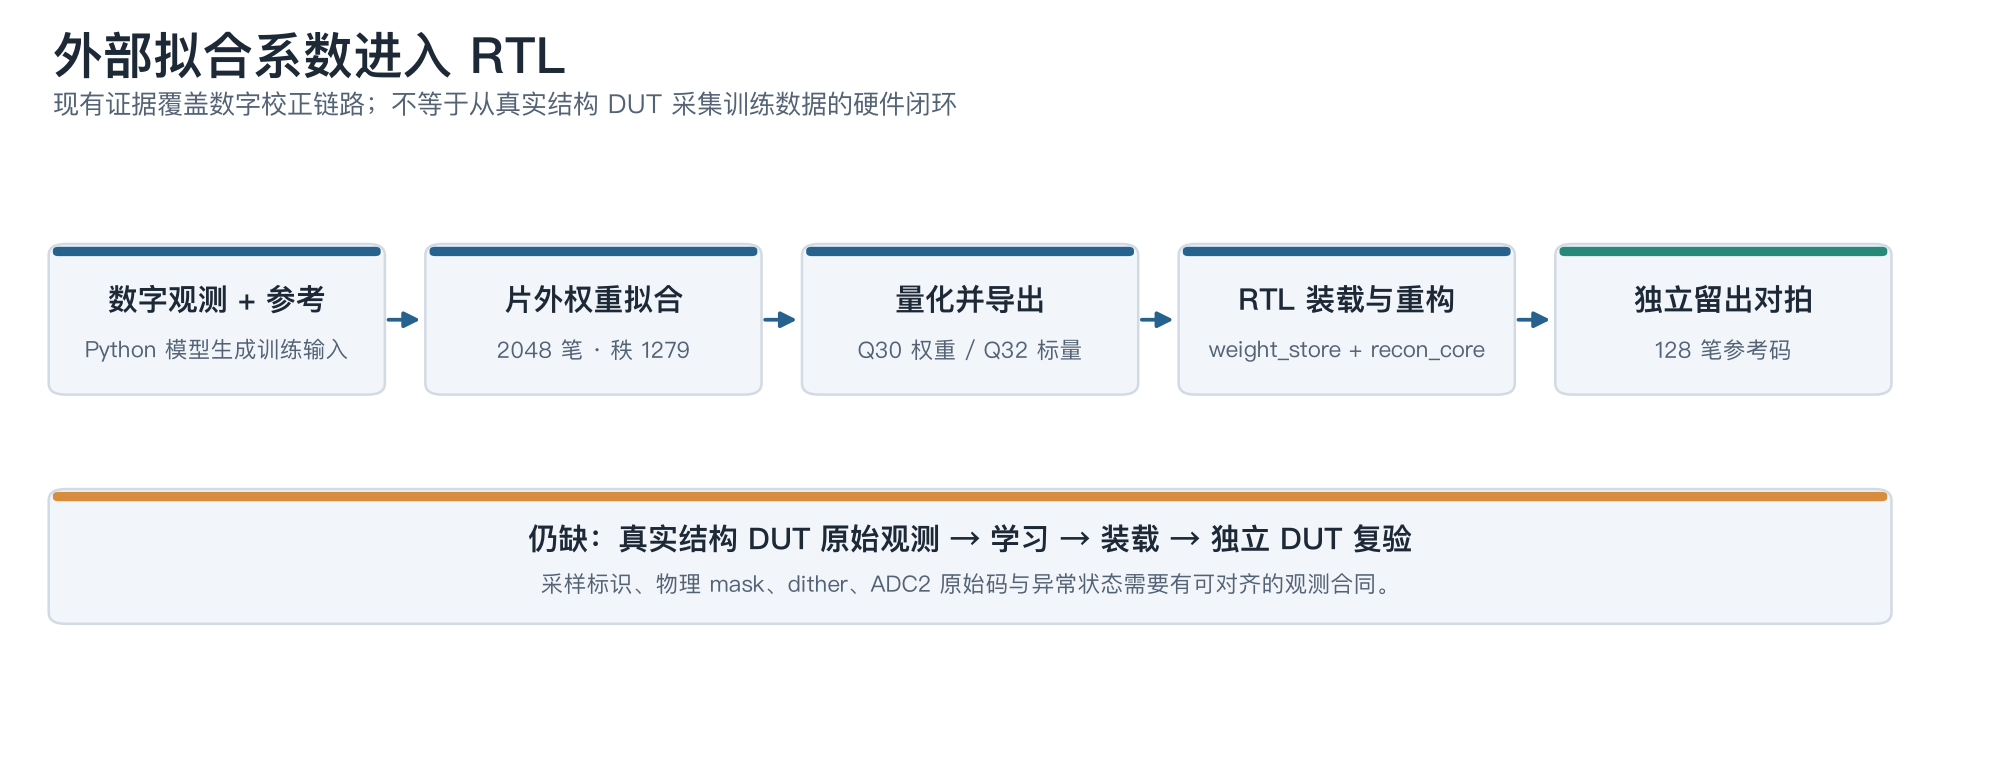
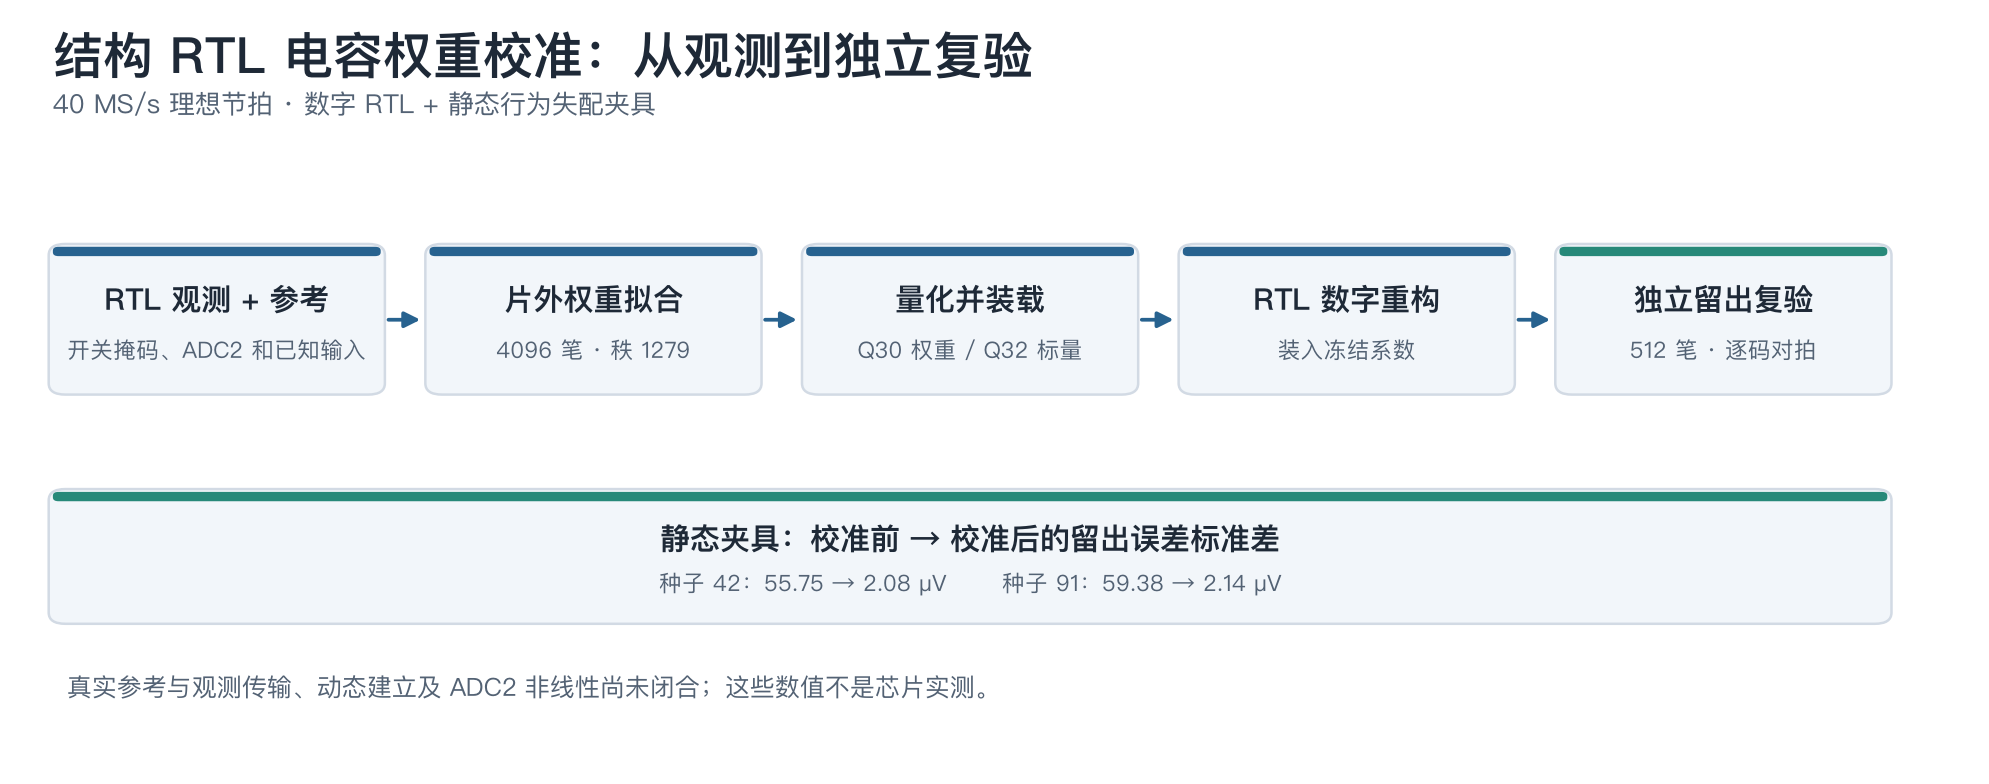
docs: clarify digital status and refresh calibration figure

diff --git a/docs/readme/make_unified_figures.py b/docs/readme/make_unified_figures.py
@@ -195,18 +195,31 @@ def matrix():
 
 
 def calibration():
-    """Illustrate the fitted-weight and RTL holdout path."""
-    manifest = json.loads((ROOT / "sim/vectors/fitted18_manifest.json").read_text())
+    """Illustrate the structural RTL fit and independent holdout evidence."""
+    report = json.loads((ROOT / "docs/readme/data/structural_calibration_summary.json").read_text())
+    cases = {row["chip_seed"]: row for row in report["results"]}
+    first, second = cases[42], cases[91]
+    if any(
+        row["noise_rms_uv"] != 0
+        or not row["rtl_matches_independent_integer"]
+        or not row["python_rtl_sample_switch_contract"]
+        for row in (first, second)
+    ):
+        raise ValueError("structural calibration figure requires the verified noiseless cases")
+    if any(
+        first[key] != second[key] for key in ("training_samples", "holdout_samples", "matrix_rank")
+    ):
+        raise ValueError("structural calibration cases use incompatible sample counts or ranks")
     fig, ax = canvas(
-        "外部拟合系数进入 RTL",
-        "现有证据覆盖数字校正链路；不等于从真实结构 DUT 采集训练数据的硬件闭环",
+        "结构 RTL 电容权重校准：从观测到独立复验",
+        f'{report["sample_rate_hz"] / 1e6:g} MS/s 理想节拍 · 数字 RTL + 静态行为失配夹具',
     )
     blocks = [
-        ("数字观测 + 参考", "Python 模型生成训练输入"),
-        ("片外权重拟合", f'{manifest["training_samples"]} 笔 · 秩 {manifest["rank"]}'),
-        ("量化并导出", "Q30 权重 / Q32 标量"),
-        ("RTL 装载与重构", "weight_store + recon_core"),
-        ("独立留出对拍", f'{manifest["holdout_samples"]} 笔参考码'),
+        ("RTL 观测 + 参考", "开关掩码、ADC2 和已知输入"),
+        ("片外权重拟合", f'{first["training_samples"]} 笔 · 秩 {first["matrix_rank"]}'),
+        ("量化并装载", "Q30 权重 / Q32 标量"),
+        ("RTL 数字重构", "装入冻结系数"),
+        ("独立留出复验", f'{first["holdout_samples"]} 笔 · 逐码对拍'),
     ]
     for i, (title, detail) in enumerate(blocks):
         x = 0.25 + 2.7 * i
@@ -219,9 +232,17 @@ def calibration():
         1.55,
         13.15,
         1.38,
-        "仍缺：真实结构 DUT 原始观测 → 学习 → 装载 → 独立 DUT 复验",
-        "采样标识、物理 mask、dither、ADC2 原始码与异常状态需要有可对齐的观测合同。",
-        ORANGE,
+        "静态夹具：校准前 → 校准后的留出误差标准差",
+        f'种子 42：{first["before_error_std_uv"]:.2f} → {first["after_error_std_uv"]:.2f} µV'
+        f'       种子 91：{second["before_error_std_uv"]:.2f} → {second["after_error_std_uv"]:.2f} µV',
+        TEAL,
+    )
+    ax.text(
+        0.35,
+        0.75,
+        "真实参考与观测传输、动态建立及 ADC2 非线性尚未闭合；这些数值不是芯片实测。",
+        fontsize=10,
+        color=MUTED,
     )
     finish(fig, "unified_3_calibration.png")
 

diff --git a/README_EN.md b/README_EN.md
@@ -6,6 +6,16 @@ This research repository studies slice scheduling, capacitor mismatch, digital c
 
 > **Evidence boundary:** This is a research prototype. A 20-bit output word does not imply 20-bit ENOB. The plotted performance figures are conditional behavioral simulations, not silicon measurements, PDK signoff or timing closure.
 
+## Results at a glance
+
+| Question | Project approach | What was observed under the stated conditions |
+|---|---|---|
+| **Capacitor mismatch** | Fit effective weights externally and load them into the digital RTL | For two static mismatch fixtures, independent holdout error standard deviation is **55.75 → 2.08 µV** and **59.38 → 2.14 µV**; see [Figure 4](#capacitor-mismatch-calibration-and-effect) |
+| **Interleaving timing skew** | Randomize slice selection to spread the spur | Under the stated 10 ps assumption, the `fs/2−fin` spur changes **−96.44 → −123.05 dBFS/bin**, while total error RMS increases; see [Figure 6](#interleaving-mismatch-spurs-and-total-error) |
+| **Model/RTL agreement** | Align switch masks, reference events and sample ownership | Under the project contract, **262144** code/DEM-state masks and **10752** reference events across three dither modes match; see [ADR 0021](docs/adr/0021-structural-contract-calibration.md) |
+
+These results use static behavioral fixtures or stated behavioral-simulation conditions. Random scheduling is not a per-slice timing calibration, and these are not silicon measurements.
+
 ## Architecture and configurations
 
 ![Two-stage SAR architecture and project configurations](docs/readme/fig/unified_1_architecture.png)
@@ -25,18 +35,19 @@ The Python profiles are not identical circuit models. A nominal sample-rate sett
 
 ## Digital work: purpose, current results and open problems
 
-The digital work is grouped into four packages: conversion control, unit/interleaving mismatch treatment, ADC-core calibration and reconstruction, and system correction and data output. “Available” means a **research prototype verified under stated conditions**.
+The digital work has four packages. “Available” means a research prototype verified under stated conditions.
 
-| Work package and main task | Available now | Still needed |
-|---|---|---|
-| **Conversion control and sample ownership:** coordinate sampling, coarse decisions, residue formation and ADC2 | Structural RTL has 16-phase control, comparator interfaces, slice scheduling, sample IDs and fault flags. The Python structural profile matches the RTL slice order, samples and seven resolved RDAC events | Real comparator completion, analog switch and reference-phase contracts; system-wide fault and reset propagation |
-| **DEM, dither and interleaving mismatch:** redistribute unit/slice error, inject known dither and address slice differences | Python has fixed physical pools and interleaving experiments; RTL has slice allocation, DEM addressing, a bridge candidate and dither generation. Physical masks and three dither modes are compared against Python | DEM redistributes error; full per-slice hardware estimation/correction of offset, gain, timing and bandwidth is missing. The complete slide bridge circuit and dual-port dither enhancement are not reproduced |
-| **Capacitor calibration and digital reconstruction:** estimate effective weights from an independent reference and digital observations, then reconstruct using known dither and frozen coefficients | Structural RTL observations, external fitting, quantized coefficient loading and independent holdouts are connected. Two static-mismatch results are shown in [Figure 4](#capacitor-mismatch-calibration-and-effect) and [ADR 0021](docs/adr/0021-structural-contract-calibration.md) | Real reference and observation transport; dynamic settling, drift and ADC2 nonlinearity. The 748-bit parallel observation port has no FIFO, backpressure or physical transport |
-| **System correction, DSP and data output:** correct overall gain/offset and provide filtering, buffering and an external interface | SAR and DSP tops are connected; correction, SINC filtering, FIFO, SPI and fault-stop blocks are prototypes | Invert the two-point coefficients from raw to target codes; complete filter coefficients, FIFO-to-serial routing, output metadata and a lossless DDR/differential interface |
+**1. Conversion control and sample ownership.** Coordinate sampling, coarse decisions, residue formation and ADC2. The structural RTL has 16-phase control, comparator interfaces, slice scheduling, sample IDs and fault flags; Python and RTL agree on slice order and seven resolved RDAC events. **Still needed:** real comparator completion, analog switch/reference phase contracts and system-wide fault/reset handling.
 
-**Shared verification and priorities:** first provide real reference, calibration-observation transport and analog-phase interfaces; then study identifiable per-slice correction and dynamic errors; finally complete DSP and output. Sample IDs, faults and reset checks span all four packages. Formal equivalence, CDC/RDC, target-library STA and analog post-layout verification remain open. The 640 MHz clock implied by 16 phases at 40 MS/s is an ideal budget, not proven target-process timing.
+**2. DEM, dither and interleaving mismatch.** Rearrange slices and capacitor units to spread error and inject known perturbations. The project has fixed physical pools, interleaving experiments, RTL slice allocation, DEM addressing, a bridge candidate and a dither generator; physical masks and three dither modes have been compared. **Still needed:** identifiable per-slice offset, gain, timing and bandwidth estimation/correction. The complete slide bridge circuit and dual-port dither enhancement remain unreproduced. DEM redistributes error; it does not measure mismatch.
 
-ADC-core capacitor-weight correction and the system gain/offset correction in the [AD4080 data sheet](https://www.analog.com/media/en/technical-documentation/data-sheets/ad4080.pdf) act at different levels. The [historical task assessment](docs/digital_task_assessment.md) lists integration verification separately; here it is shared by all four packages.
+**3. Capacitor calibration and digital reconstruction.** Estimate effective weights from a known reference and digital observations, then reconstruct using frozen coefficients and known dither. Structural RTL observation, external fitting, quantized loading and independent holdouts are connected; see [ADR 0021](docs/adr/0021-structural-contract-calibration.md). **Still needed:** real reference and observation transport, dynamic settling/drift and ADC2 nonlinearity verification; the 748-bit observation port has no FIFO or backpressure.
+
+**4. System correction, DSP and data output.** Correct overall signal-chain gain/offset and provide filtering, buffering and external interfaces. SAR and DSP tops are connected; correction, SINC, FIFO, SPI and fault-stop blocks are prototypes. **Still needed:** correct the two-point coefficient direction, complete filter coefficients, FIFO-to-serial routing, output metadata and a lossless DDR/differential interface.
+
+**Shared priorities.** First establish real reference, observation transport and analog-phase interfaces; then study per-slice correction and dynamic error; finally complete DSP and output. Sample IDs, faults, reset and verification span all four packages. Formal equivalence, CDC/RDC, target-library STA and analog post-layout verification remain open. The 640 MHz clock implied by 16 phases at 40 MS/s is an ideal budget.
+
+ADC-core weight correction and system gain/offset correction in the [AD4080 data sheet](https://www.analog.com/media/en/technical-documentation/data-sheets/ad4080.pdf) act at different levels. The [historical task assessment](docs/digital_task_assessment.md) listed integration verification separately; here it is shared work.
 
 ## Mapping public sources to this project
 
@@ -56,7 +67,7 @@ See [`mechanism_inventory.json`](mechanism_inventory.json), [`sources_manifest.j
 
 ![External fitting to RTL reconstruction](docs/readme/fig/unified_3_calibration.png)
 
-*Figure 2. Original project illustration of the existing external fit and RTL reconstruction path.*
+*Figure 2. Structural digital RTL observation, external fitting and independent holdout. This original illustration uses retained results from a static behavioral mismatch fixture, not silicon.*
 
 Digital observations and an independent reference input feed a Python batch estimator. Frozen effective unit weights are quantized into Q30 weights and Q32 scalars, loaded into RTL `weight_store` and `calib_regs`, and applied by `recon_core`. [ADR 0019](docs/adr/0019-fitted-weight-rtl-closure.md) used Python training observations; the current flow also captures real structural-DUT observations, as described in [ADR 0021](docs/adr/0021-structural-contract-calibration.md).
 
@@ -111,6 +122,16 @@ The separate `cal_two_point` block currently fits `y=m·x+c` at fixed x coordina
 *Figure 8. Original illustration generated from the runtime parameter provenance ledger. Fitted and assumed results are not disclosed facts or chip measurements.*
 
 Behavioral models, RTL simulation, historical FPGA evidence and target-PDK synthesis/STA are separate evidence levels. Figures 3 and 6 are 40 MS/s behavioral simulations on baseline `6863fc3`; Figure 4 combines the current structural digital DUT with a static behavioral plant. None is transistor or silicon data. Historical detailed documentation is retained in [`docs/history/`](docs/history/); historical tests are not automatically new results for the present checkout.
+
+### Code and data entry points
+
+| Looking for | Entry point |
+|---|---|
+| Behavioral model, configuration and switching | [`src/adi_model/`](src/adi_model/) |
+| Structural RTL and observation/reconstruction interface | [`sar20_digital_core.sv`](rtl/top/sar20_digital_core.sv) · [RTL contract](docs/adr/0021-structural-contract-calibration.md) |
+| Calibration training, loading and holdouts | [`run_structural_calibration.py`](tools/run_structural_calibration.py) · [result data](docs/readme/data/) |
+| Interleaving, reference and paper comparisons | [Experiment comparisons](docs/paper_comparisons/README.md) |
+| DSP and external interfaces | [DSP README](ad4080_dsp/README.md) · [SAR interface](ad4080_dsp/docs/SAR20_INTERFACE.md) |
 
 ### Quick start
 

diff --git a/README.md b/README.md
@@ -6,6 +6,16 @@
 
 > **证据边界**：这是研究原型；20 位是数字输出码宽，不等于 20-bit ENOB。图中的性能数字来自指定条件下的行为仿真，不是芯片实测，也不代表版图、PDK 或时序签核。
 
+## 先看结果
+
+| 关心的问题 | 工程中的处理 | 在什么条件下看到什么 |
+|---|---|---|
+| **电容失配** | 片外拟合有效权重，装入数字 RTL 后重构 | 两组静态失配夹具的独立留出误差标准差分别为 **55.75 → 2.08 µV**、**59.38 → 2.14 µV**；见[图 4](#电容失配如何校准效果是什么) |
+| **交织时序失配** | 随机选择 slice，分散误差杂散 | 指定 10 ps 假设下，`fs/2−fin` 杂散为 **−96.44 → −123.05 dBFS/bin**，但总误差 RMS 增大；见[图 6](#交织失配杂散与总误差) |
+| **模型与 RTL 是否一致** | 对齐开关掩码、参考事件和样本归属 | 项目合同下 **262144 组**码／DEM 状态掩码一致，三种 dither 模式的 **10752 个**参考事件对拍一致；见 [ADR 0021](docs/adr/0021-structural-contract-calibration.md) |
+
+这些数字分别来自静态行为夹具或指定条件的行为仿真；随机调度不是逐 slice 时序校准，以上结果也不是芯片测量。
+
 ## 架构与配置
 
 ![两级 SAR 架构与工程配置](docs/readme/fig/unified_1_architecture.png)
@@ -25,18 +35,19 @@
 
 ## 数字部分：作用、完成情况与主要问题
 
-数字部分按四块组织：控制转换、处理单元与交织失配、校准并重构 ADC 核输出、完成系统校正和数据输出。下表的“已完成”均指**指定条件下验证的研究原型**。
+数字工作分为四块；下文的“已完成”均指指定条件下验证的研究原型。
 
-| 工作块与主要任务 | 已完成 | 还缺什么 |
-|---|---|---|
-| **转换控制与样本管理**：组织采样、粗判决、残差形成和 ADC2 转换，保证每笔数据归属正确 | 结构 RTL 已有 16 相位控制、比较器接口、slice 调度、样本 ID 和异常标志；Python 结构对照的切片顺序、样本及 7 个 RDAC 已决事件已与 RTL 对拍 | 需要真实比较器完成时刻、模拟开关和参考相位合同，并验证异常及复位贯穿整个系统 |
-| **DEM、dither 与交织失配**：重排 slice 和电容单元以分散失配误差，加入已知扰动并处理切片间差异 | Python 有固定物理池和交织失配实验；RTL 有 slice 分配、DEM 地址、bridge 候选和 dither 发生器，物理掩码及三种 dither 模式已与 Python 对拍 | DEM 只重排误差，尚无逐 slice 失调、增益、时序和带宽的完整硬件估计／补偿闭环；讲稿 bridge 的完整电路和双端口 dither 增强未复现 |
-| **电容校准与数字重构**：用独立参考和数字观测估计电容的有效权重，再结合已知扰动和冻结系数重构输出 | 已贯通结构 RTL 原始观测、片外拟合、系数量化装载和独立留出复验；静态失配夹具的两组结果见[图 4](#电容失配如何校准效果是什么)及 [ADR 0021](docs/adr/0021-structural-contract-calibration.md) | 尚需真实参考输入和观测读出，覆盖动态建立、漂移及 ADC2 自身非线性；748 位并行观测口尚无 FIFO、反压或实际传输机制 |
-| **系统校正、DSP 与数据输出**：修正信号链整体增益／失调，并提供滤波、缓存和外部接口 | SAR 与 DSP 顶层已连接；校正、SINC 滤波、FIFO、SPI 和错误阻断已有原型 | 两点系数需按原码到目标码求逆；补齐有效滤波系数、FIFO 到串行路径、输出元数据和无损 DDR／差分接口 |
+**1. 转换控制与样本管理。** 负责采样、粗判决、残差形成和 ADC2 转换，并记录每笔数据的归属。已实现 16 相位控制、比较器接口、slice 调度、样本 ID 和异常标志，Python 结构对照已与 RTL 对齐切片顺序及 7 个 RDAC 已决事件。**还需**落实真实比较器完成时刻、模拟开关／参考相位，以及系统级异常和复位。
 
-**共同验证与优先级：**先落实真实参考、校准观测读出和模拟相位接口，再研究逐 slice 可辨识校正与动态误差，随后完善 DSP 和输出。样本 ID、异常与复位检查贯穿各块；形式等价、CDC／RDC、目标工艺 STA 和模拟后仿仍需完成。16 相位对应的 640 MHz 只是 40 MS/s 下的理想时钟预算，不代表工艺时序已通过。
+**2. DEM、dither 与交织失配。** 负责重排 slice 与电容单元以分散误差，并加入已知扰动。已有固定物理池、交织失配行为实验、RTL 的 slice 分配、DEM 地址、bridge 候选及 dither 发生器；物理掩码与三种 dither 模式已对拍。**还需**逐 slice 失调、增益、时序和带宽的可辨识估计／补偿；讲稿 bridge 完整电路和双端口 dither 增强也未复现。DEM 是误差重排，不会自行测量失配。
 
-ADC 核的电容权重校正与 [AD4080 手册](https://www.analog.com/media/en/technical-documentation/data-sheets/ad4080.pdf)中的系统增益／失调校正作用于不同层次；[历史任务复核](docs/digital_task_assessment.md)将集成验证单列，此处把它作为四块共有的验收工作。
+**3. 电容校准与数字重构。** 负责从已知参考和数字观测估计有效权重，结合已知扰动重构输出。已贯通结构 RTL 观测、片外拟合、量化装载和独立留出复验，条件与数据见 [ADR 0021](docs/adr/0021-structural-contract-calibration.md)。**还需**真实参考及观测传输、动态建立／漂移与 ADC2 自身非线性验证；现有 748 位并行观测口没有 FIFO 或反压。
+
+**4. 系统校正、DSP 与数据输出。** 负责整个信号链的增益／失调校正，以及滤波、缓存和外部接口。SAR 与 DSP 顶层已连接，校正、SINC、FIFO、SPI 和错误阻断均有原型。**还需**修正两点系数方向，补齐有效滤波系数、FIFO 到串行路径、输出元数据和无损 DDR／差分接口。
+
+**共同优先级。** 先落实真实参考、观测读出和模拟相位接口，再研究逐 slice 校正与动态误差，随后完善 DSP 和输出。样本 ID、异常、复位及验证贯穿四块；形式等价、CDC／RDC、目标工艺 STA 和模拟后仿仍未完成。16 相位对应的 640 MHz 是 40 MS/s 下的理想时钟预算。
+
+ADC 核的电容权重校正与 [AD4080 手册](https://www.analog.com/media/en/technical-documentation/data-sheets/ad4080.pdf)中的系统增益／失调校正作用于不同层次；[历史任务复核](docs/digital_task_assessment.md)将集成验证单列，此处把它作为共同工作。
 
 ## 论文、专利与工程实现
 
@@ -56,7 +67,7 @@ ADC 核的电容权重校正与 [AD4080 手册](https://www.analog.com/media/en/
 
 ![拟合权重到 RTL 的路径](docs/readme/fig/unified_3_calibration.png)
 
-*图 2．现有片外拟合和 RTL 重构路径；按工程实现独立绘制。*
+*图 2．结构数字 RTL 观测、片外拟合和独立留出复验；由随库结果数据生成的原创示意，静态行为失配夹具不是芯片。*
 
 数字观测与独立参考输入送入 Python 批量拟合器，得到冻结的有效单元权重；系数量化为 Q30 权重和 Q32 标量，装入 RTL `weight_store`、`calib_regs`，由 `recon_core` 重构。原有 [ADR 0019](docs/adr/0019-fitted-weight-rtl-closure.md) 使用 Python 训练观测；现在也能直接采集结构 DUT 的原始观测，详细合同见 [ADR 0021](docs/adr/0021-structural-contract-calibration.md)。
 
@@ -111,6 +122,16 @@ DSP 的独立 `cal_two_point` 当前对固定横坐标拟合 `y=m·x+c`。若以
 *图 8．按运行时参数来源账本独立绘制。拟合和假设产生的结果不能升级为披露值或芯片测量值。*
 
 Python 模型、RTL 仿真、历史 FPGA 证据与目标 PDK 综合/STA 分属不同验证层级。图 3 和图 6 来自基线 `6863fc3` 的 40 MS/s 行为仿真；图 4 是当前结构数字 DUT 与静态行为 plant 的联合仿真；均不是晶体管或硅片数据。历史版本的详细说明保留在 [`docs/history/`](docs/history/)，历史测试结果不自动代表当前工作树重新通过。
+
+### 代码与数据入口
+
+| 想看什么 | 入口 |
+|---|---|
+| 行为模型、配置和开关映射 | [`src/adi_model/`](src/adi_model/) |
+| 结构 RTL 与观测／重构接口 | [`sar20_digital_core.sv`](rtl/top/sar20_digital_core.sv) · [RTL 合同](docs/adr/0021-structural-contract-calibration.md) |
+| 校准训练、装载与留出复验 | [`run_structural_calibration.py`](tools/run_structural_calibration.py) · [结果数据](docs/readme/data/) |
+| 交织、参考及论文对照实验 | [逐页实验对照](docs/paper_comparisons/README.md) |
+| DSP 和外部接口 | [DSP README](ad4080_dsp/README.md) · [SAR 接口](ad4080_dsp/docs/SAR20_INTERFACE.md) |
 
 ### 快速开始
 

diff --git a/docs/readme/data/README.md b/docs/readme/data/README.md
@@ -13,7 +13,13 @@
   基线 `d809da6`；没有使用逐 slice 失配估计器。可在当前工程运行
   `../reproduce_interleave_40m.py --out <新目录> --compare-frozen` 复现并
   对照序列；建议设置 `OPENBLAS_NUM_THREADS=1`。
+- `structural_calibration_holdout.npz` 保存两个静态失配种子的独立留出输入、
+  样本 ID 及结构 RTL 校准前后输出码。`structural_calibration_summary.json`
+  记录无额外噪声的训练／留出条件、结果和源文件哈希；
+  `structural_calibration_noise_summary.json` 记录假设 48 µV RMS 输入等效
+  噪声的另一组测试。它们是数字 RTL 与静态行为夹具的仿真，不是芯片测量。
 
-`../make_unified_figures.py` 从这些文件重画对应曲线，
+`../make_unified_figures.py` 从这些文件重画对应曲线和当前校准流程图，
+`../make_contract_figures.py` 重画 bridge 与结构留出误差图；
 `tests/unit/test_readme_effect_evidence.py` 独立检查序列与数字指标是否一致。
 不同 NumPy/BLAS 环境重新拟合时末位可能不同；画图不需要重新拟合。
